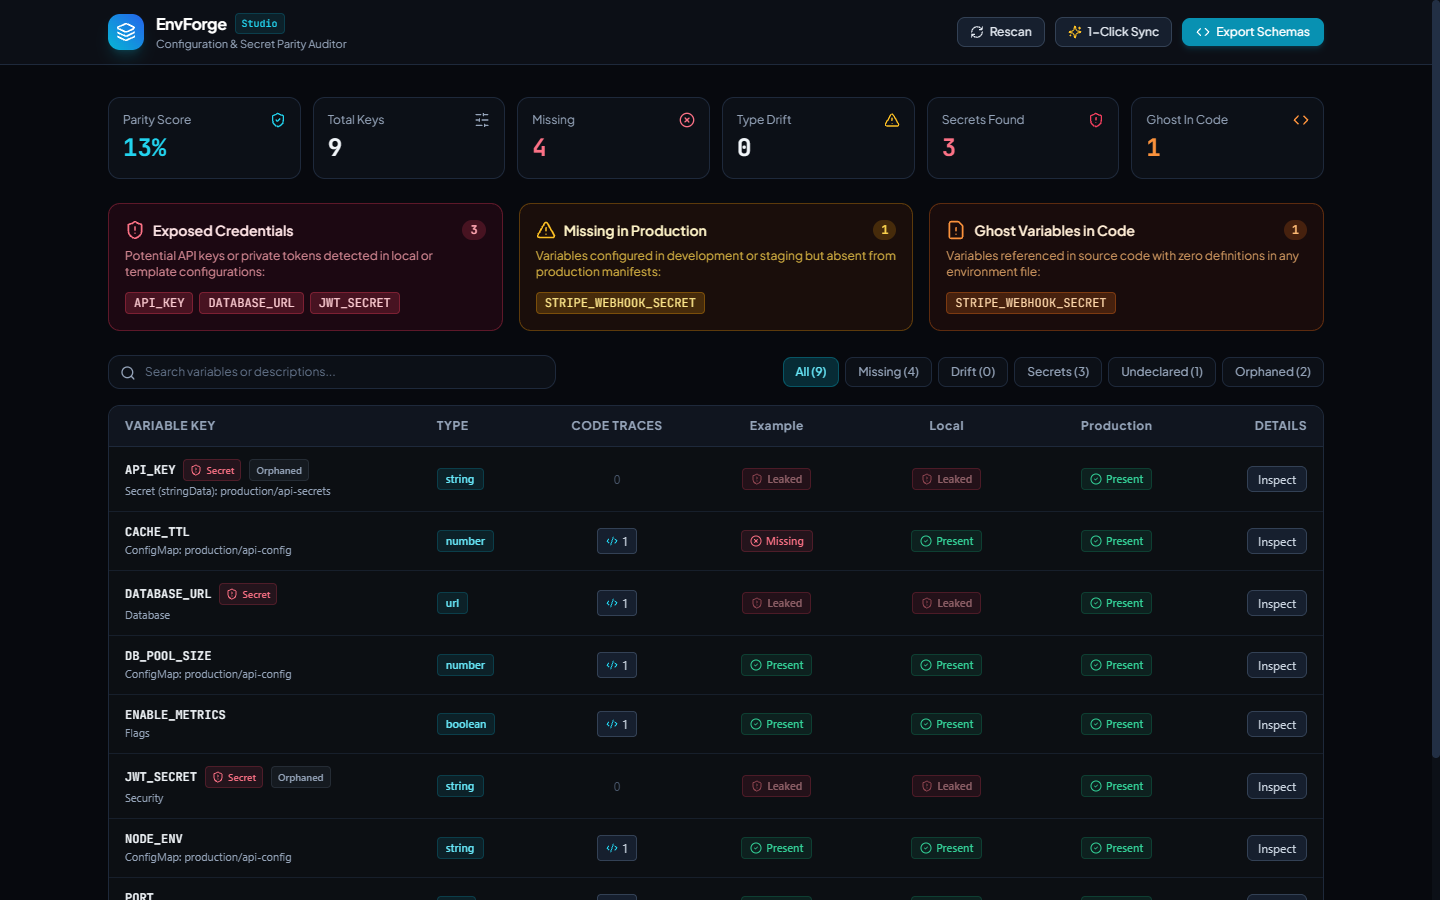
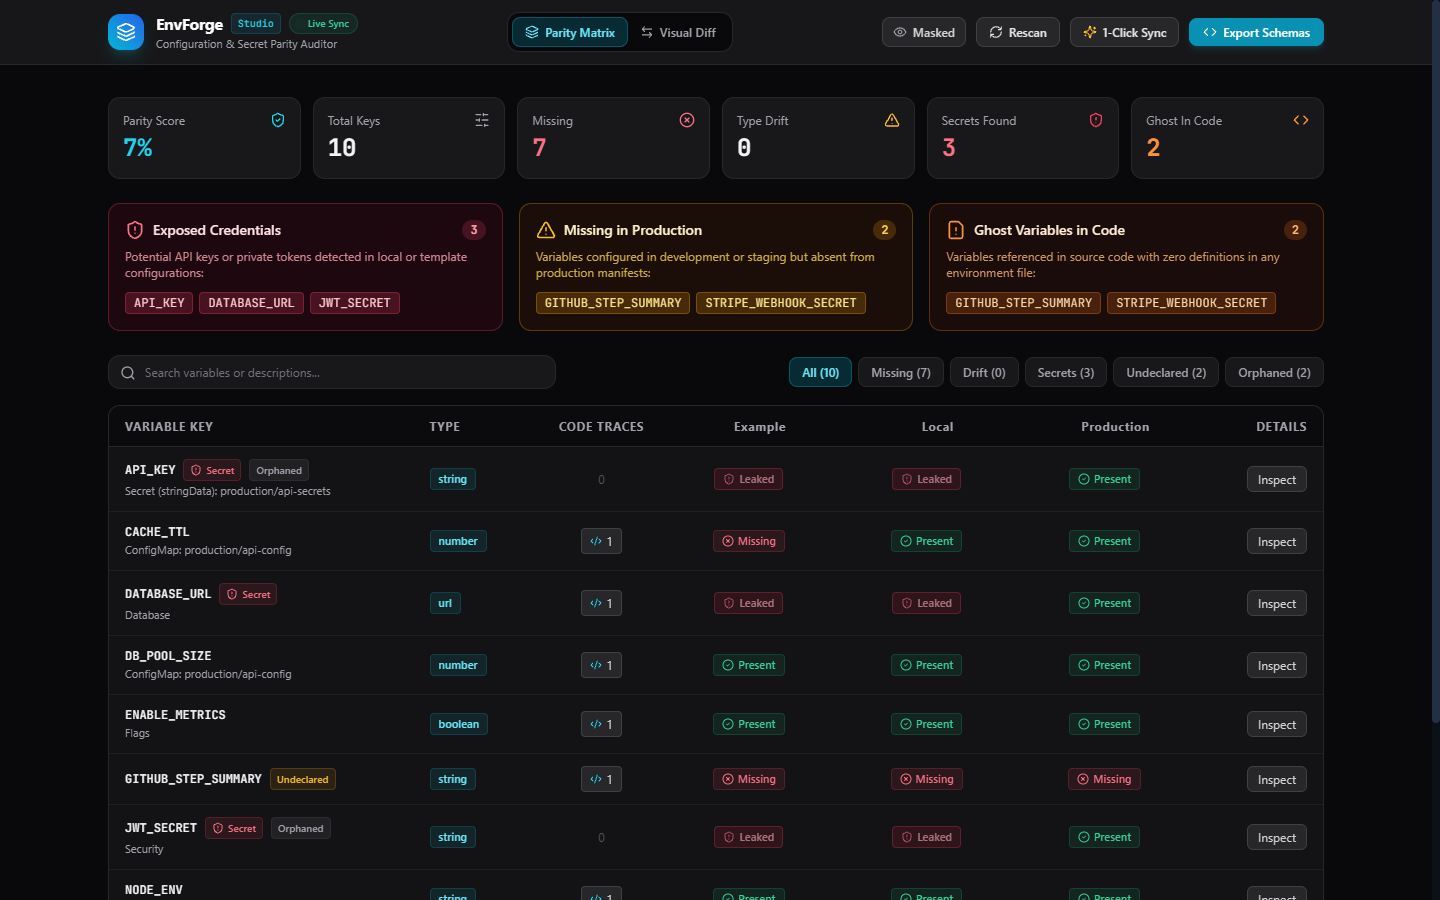
docs: add visual diff screenshot and updated responsive demo gif

diff --git a/web/src/App.tsx b/web/src/App.tsx
@@ -76,29 +76,31 @@ export const App: React.FC = () => {
             </div>
           </div>
 
-          {/* View Modes Switcher */}
-          <div className="hidden md:flex items-center bg-zinc-950 p-1 rounded-xl border border-zinc-800 text-xs">
+          {/* View Modes Switcher (Responsive for all screen sizes) */}
+          <div className="flex items-center bg-zinc-950 p-1 rounded-xl border border-zinc-800 text-xs">
             <button
               onClick={() => setActiveTab('matrix')}
-              className={`inline-flex items-center gap-1.5 px-3 py-1.5 rounded-lg font-medium transition-all ${
+              className={`inline-flex items-center gap-1.5 px-2.5 sm:px-3 py-1.5 rounded-lg font-medium transition-all ${
                 activeTab === 'matrix'
                   ? 'bg-cyan-500/20 text-cyan-300 border border-cyan-500/30 shadow-sm'
                   : 'text-zinc-400 hover:text-zinc-200'
               }`}
             >
               <Layers className="w-3.5 h-3.5" />
-              Parity Matrix
+              <span className="hidden sm:inline">Parity Matrix</span>
+              <span className="sm:hidden">Matrix</span>
             </button>
             <button
               onClick={() => setActiveTab('diff')}
-              className={`inline-flex items-center gap-1.5 px-3 py-1.5 rounded-lg font-medium transition-all ${
+              className={`inline-flex items-center gap-1.5 px-2.5 sm:px-3 py-1.5 rounded-lg font-medium transition-all ${
                 activeTab === 'diff'
                   ? 'bg-cyan-500/20 text-cyan-300 border border-cyan-500/30 shadow-sm'
                   : 'text-zinc-400 hover:text-zinc-200'
               }`}
             >
               <ArrowLeftRight className="w-3.5 h-3.5" />
-              Visual Diff
+              <span className="hidden sm:inline">Visual Diff</span>
+              <span className="sm:hidden">Diff</span>
             </button>
           </div>
 

diff --git a/README.md b/README.md
@@ -48,18 +48,23 @@ EnvForge audits environment configurations across multiple formats and execution
 </p>
 
 <p align="center">
+  <img src="docs/images/envforge_diff.png" alt="1-to-1 Visual Diff Mode" width="100%"/>
+  <em>Figure 2: 1-to-1 Visual Diff Mode comparing configurations, showing identical values, discrepancies, and one-click key transfer.</em>
+</p>
+
+<p align="center">
   <img src="docs/images/envforge_code_trace.png" alt="Codebase AST Trace Drawer" width="100%"/>
-  <em>Figure 2: AST code reference drawer displaying exact file paths, line numbers, and context snippets.</em>
+  <em>Figure 3: AST code reference drawer displaying exact file paths, line numbers, and context snippets.</em>
 </p>
 
 <p align="center">
   <img src="docs/images/envforge_schema_export.png" alt="Type-Safe Schema Export Modal" width="100%"/>
-  <em>Figure 3: Schema generator supporting Zod, T3-Env, Valibot, Python Pydantic Settings, TypeScript, JSON Schema, and .env.example.</em>
+  <em>Figure 4: Schema generator supporting Zod, T3-Env, Valibot, Python Pydantic Settings, TypeScript, JSON Schema, and .env.example.</em>
 </p>
 
 <p align="center">
   <img src="docs/images/envforge_sync.png" alt="1-Click Environment Sync" width="100%"/>
-  <em>Figure 4: 1-Click synchronization dialog to align missing keys across environments.</em>
+  <em>Figure 5: 1-Click synchronization dialog to align missing keys across environments.</em>
 </p>
 
 ---
